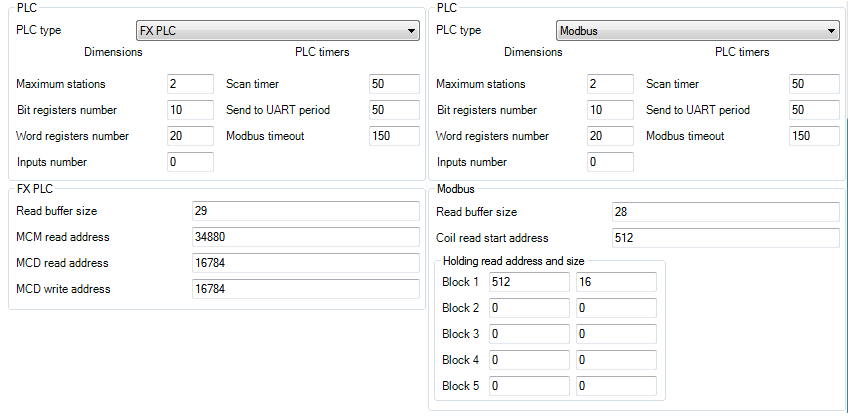
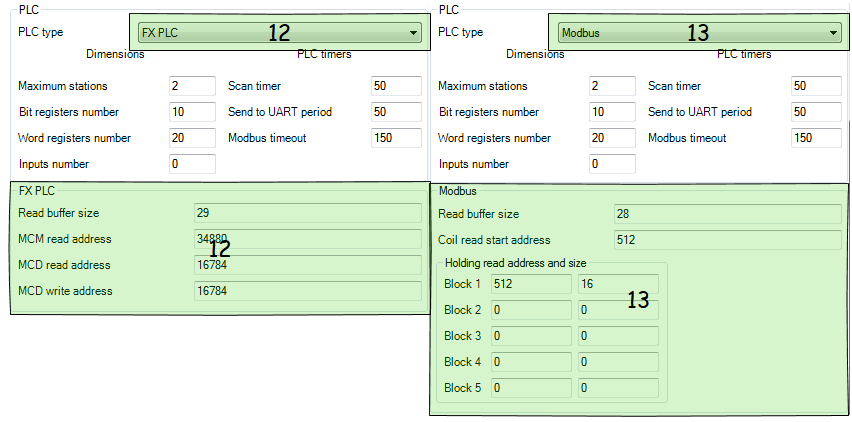
Added configuration documentation.

diff --git a/usage.rst b/usage.rst
@@ -29,8 +29,6 @@ Text field :i:`10` at the bottom allows to send AT commands explicitly into mode
 
    Search does not work incrementally: it just highlights all found matches so you can see them distinctly.
 
-But before you actually use program, you may wish to setup it for your demands. To do so, go to **"Settings"** tab at the top left corner. If you wish to skip settings chapter, go to :ref:`Updating firmware` section.
-
 .. _queue:
 
 Using queue
@@ -53,6 +51,8 @@ Button **"Pause/Resume"**  :i:`2` explicitely pause/resume queue. State of the q
 Button **"Repeat"** :i:`3` allows to repeat last failed AT-command if the queue is currently paused. This command is repeated in second queue, so this is just an automation around typing the same command again and again.
 
 Progressbar :i:`4` is needed for indicating progress of long events (such as downloading firmware or configuring lots of ports).
+
+But before you actually use program, you may wish to setup it for your demands. To do so, go to **"Settings"** tab at the top left corner. If you wish to skip settings chapter, go to :ref:`preparation` section.
 
 .. _settings:
 
@@ -125,7 +125,23 @@ If you want to update firmware (or to download it the first time), click the **"
 Application configuration
 -------------------------
 
-When you go into **"Configuration"** tab
+Configuring application only works if you have our application inside your modem (which is obvious).
+
+.. image:: Screens/Configuration1.png
+
+.. image:: Screens/Configuration2.png
+
+:i:`1` button fills information from modem.
+
+:i:`2` button fills information from XML config file. You can get such file with predefined settings and just load whole configuration from it.
+
+:i:`3` button saves current on-screen configuration into XML file for future use.
+
+:i:`4` button resets default configuration which is defined by the version of application you are using.
+
+:i:`5` button configures all on-screen configuration into modem.
+
+Reference manual for sections :i:`6` - :i:`13` will be added in future.
 
 .. _troubleshooting:
 
